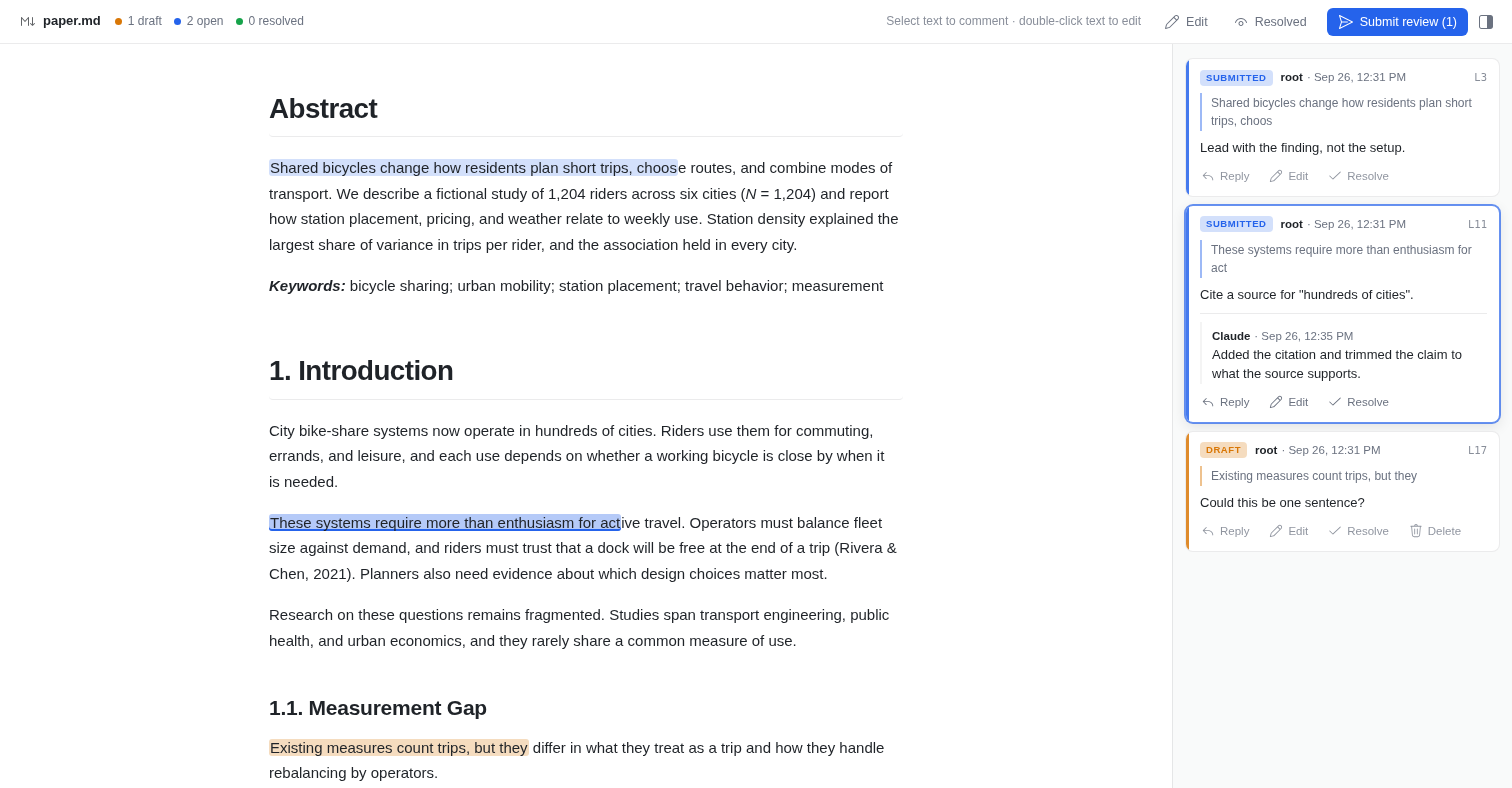
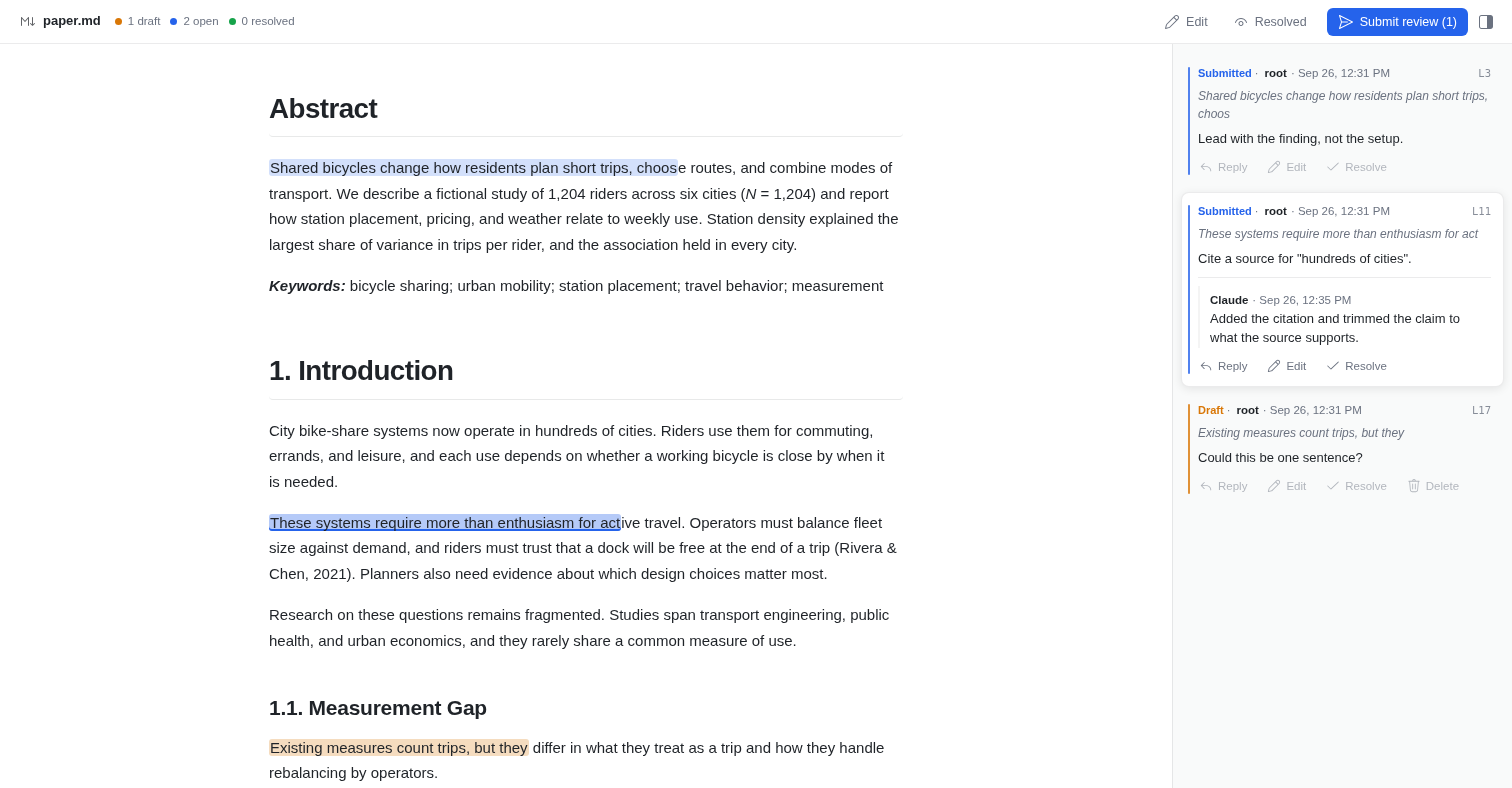
Streamline the review UI and make the document area themeable
- Document typography now reads --doc-bg/fg/muted/accent/font/mono/size/
  zoom/leading, so a reading theme or zoom can restyle the Markdown area
  while the review chrome keeps following the VS Code theme.
- Comment cards are flat list items with a thin status rule; the active
  card lifts. Status reads as a coloured word, quotes lose their bar.
- Toolbar: drop the hint text (the empty pane explains it) and hide
  Submit review until there are drafts.
- Refresh docs/screenshot.png.

Claude-Session: https://claude.ai/code/session_01FukRLmRpfoMhfufBDs3xmW

diff --git a/webview/style.css b/webview/style.css
@@ -27,6 +27,16 @@
   --measure: 76ch;
   --radius: 6px;
   --ease: cubic-bezier(0.2, 0, 0, 1);
+  /* Document area. A reading theme or zoom overrides these on body or .mdr-layout; the review chrome keeps the VS Code theme. */
+  --doc-bg: var(--bg);
+  --doc-fg: var(--fg);
+  --doc-muted: var(--muted);
+  --doc-accent: var(--accent);
+  --doc-font: var(--font);
+  --doc-mono: var(--mono);
+  --doc-size: 15px;
+  --doc-zoom: 1;
+  --doc-leading: 1.7;
   --font: var(--vscode-font-family, -apple-system, BlinkMacSystemFont, 'Segoe UI', 'Inter', Roboto, sans-serif);
   --mono: var(--vscode-editor-font-family, 'Cascadia Code', Consolas, 'SF Mono', Menlo, monospace);
 
@@ -49,7 +59,7 @@
 html, body { margin: 0; padding: 0; background: var(--bg); color: var(--fg); }
 body { font-family: var(--font); font-size: 15px; line-height: 1.7; -webkit-font-smoothing: antialiased; text-rendering: optimizeLegibility; }
 :focus-visible { outline: 1px solid var(--focus); outline-offset: 1px; }
-.mdr-doc ::selection { background: var(--vscode-editor-selectionBackground, color-mix(in srgb, var(--accent) 28%, transparent)); }
+.mdr-doc ::selection { background: var(--vscode-editor-selectionBackground, color-mix(in srgb, var(--doc-accent) 28%, transparent)); }
 
 /* ---------- icons ---------- */
 .mdr-file::before, .mdr-empty::before, #mdr-edit-btn::before, .mdr-toggle::before,
@@ -97,12 +107,12 @@ button.danger { color: var(--danger); }
 .mdr-toolbar {
   position: sticky; top: 0; z-index: 20; height: var(--bar-h); display: flex; align-items: center; justify-content: space-between;
   gap: 12px; padding: 0 12px 0 20px; font-size: 13px;
-  background: color-mix(in srgb, var(--bg) 88%, transparent); backdrop-filter: saturate(1.4) blur(10px);
+  background: color-mix(in srgb, var(--bg) 94%, transparent); backdrop-filter: saturate(1.4) blur(12px);
   border-bottom: 1px solid var(--hairline);
 }
 .mdr-title { display: flex; align-items: center; gap: 14px; min-width: 0; }
 .mdr-file { display: inline-flex; align-items: center; gap: 7px; font-weight: 600; min-width: 0; white-space: nowrap; overflow: hidden; text-overflow: ellipsis; }
-.mdr-counts { display: flex; gap: 12px; color: var(--muted); font-size: 12px; font-variant-numeric: tabular-nums; }
+.mdr-counts { display: flex; gap: 10px; color: var(--muted); font-size: 11.5px; font-variant-numeric: tabular-nums; }
 .mdr-pill { display: inline-flex; align-items: center; gap: 6px; white-space: nowrap; }
 .mdr-pill::before { content: ''; width: 7px; height: 7px; border-radius: 50%; background: currentColor; }
 .mdr-pill.draft::before { background: var(--draft); }
@@ -120,15 +130,24 @@ button.danger { color: var(--danger); }
 .mdr-toggle:has(input:focus-visible) { outline: 1px solid var(--focus); outline-offset: 1px; }
 .mdr-toggle:has(input:not(:checked)) { text-decoration: line-through; text-decoration-color: color-mix(in srgb, var(--muted) 60%, transparent); }
 button.mdr-side-toggle { padding: 5px; }
-.mdr-hint { color: var(--muted); font-size: 12px; margin-right: 8px; opacity: 0.8; white-space: nowrap; }
-@media (max-width: 1100px) { .mdr-hint { display: none; } }
+.mdr-hint { display: none; } /* the empty comments pane explains how to comment and edit */
+#mdr-submit:disabled { display: none; } /* only offered when there are drafts to submit */
 @media (max-width: 760px) { .mdr-counts { display: none; } }
 
 /* ---------- layout ---------- */
-.mdr-layout { display: grid; grid-template-columns: minmax(0, 1fr) clamp(240px, 30vw, var(--sidebar-w)); }
-.mdr-doc { padding: 48px 56px 160px; max-width: calc(var(--measure) + 112px); width: 100%; margin: 0 auto; }
+.mdr-layout {
+  --doc-rule: color-mix(in srgb, var(--doc-fg) 10%, transparent);
+  --doc-soft: color-mix(in srgb, var(--doc-fg) 5%, var(--doc-bg));
+  --doc-softer: color-mix(in srgb, var(--doc-fg) 2.5%, var(--doc-bg));
+  --doc-code-bg: var(--vscode-textCodeBlock-background, var(--doc-softer));
+  background: var(--doc-bg); color: var(--doc-fg);
+  display: grid; grid-template-columns: minmax(0, 1fr) clamp(240px, 30vw, var(--sidebar-w)); }
+.mdr-doc {
+  font-family: var(--doc-font); font-size: calc(var(--doc-size) * var(--doc-zoom)); line-height: var(--doc-leading);
+  padding: 48px 56px 160px; max-width: calc(var(--measure) + 112px); width: 100%; margin: 0 auto; }
 .mdr-sidebar {
-  position: sticky; top: var(--bar-h); height: calc(100vh - var(--bar-h)); overflow-y: auto; padding: 14px 12px 60px;
+  color: var(--fg);
+  position: sticky; top: var(--bar-h); height: calc(100vh - var(--bar-h)); overflow-y: auto; padding: 10px 8px 60px;
   border-left: 1px solid var(--hairline); background: var(--softer); font-size: 13px; line-height: 1.5;
   scrollbar-width: thin; scrollbar-color: var(--vscode-scrollbarSlider-background, var(--border)) transparent;
   animation: mdr-fade-in 0.18s var(--ease);
@@ -148,38 +167,38 @@ button.mdr-side-toggle { padding: 5px; }
 .mdr-doc h1, .mdr-doc h2, .mdr-doc h3, .mdr-doc h4, .mdr-doc h5, .mdr-doc h6 {
   line-height: 1.25; font-weight: 650; margin: 2em 0 0.65em; letter-spacing: -0.012em; text-wrap: balance;
 }
-.mdr-doc h1 { font-size: 1.85em; letter-spacing: -0.02em; padding-bottom: 0.35em; border-bottom: 1px solid var(--hairline); }
+.mdr-doc h1 { font-size: 1.85em; letter-spacing: -0.02em; padding-bottom: 0.35em; border-bottom: 1px solid var(--doc-rule); }
 .mdr-doc h2 { font-size: 1.4em; }
 .mdr-doc h3 { font-size: 1.15em; }
 .mdr-doc h4 { font-size: 1em; }
-.mdr-doc h5, .mdr-doc h6 { font-size: 0.9em; color: var(--muted); }
+.mdr-doc h5, .mdr-doc h6 { font-size: 0.9em; color: var(--doc-muted); }
 .mdr-doc > :first-child { margin-top: 0; }
 .mdr-doc p { margin: 0 0 1.05em; text-wrap: pretty; }
-.mdr-doc a { color: var(--accent); text-decoration: underline; text-decoration-color: color-mix(in srgb, var(--accent) 35%, transparent); text-underline-offset: 2px; transition: text-decoration-color 0.12s; }
+.mdr-doc a { color: var(--doc-accent); text-decoration: underline; text-decoration-color: color-mix(in srgb, var(--doc-accent) 35%, transparent); text-underline-offset: 2px; transition: text-decoration-color 0.12s; }
 .mdr-doc a:hover { text-decoration-color: currentColor; }
 .mdr-doc strong { font-weight: 650; }
 .mdr-doc img { max-width: 100%; height: auto; display: block; margin: 0.75em auto; border-radius: var(--radius); }
-.mdr-doc blockquote { margin: 0 0 1.05em; padding: 0.1em 0 0.1em 1.1em; border-left: 3px solid var(--hairline); color: var(--muted); }
-.mdr-doc code { font-family: var(--mono); font-size: 0.86em; background: var(--soft); padding: 0.12em 0.38em; border-radius: 4px; }
+.mdr-doc blockquote { margin: 0 0 1.05em; padding: 0.1em 0 0.1em 1.1em; border-left: 3px solid var(--doc-rule); color: var(--doc-muted); }
+.mdr-doc code { font-family: var(--doc-mono); font-size: 0.86em; background: var(--doc-soft); padding: 0.12em 0.38em; border-radius: 4px; }
 .mdr-doc pre {
-  background: var(--vscode-textCodeBlock-background, var(--softer)); border: 1px solid var(--hairline);
+  background: var(--doc-code-bg); border: 1px solid var(--doc-rule);
   padding: 14px 16px; border-radius: 8px; overflow-x: auto; line-height: 1.55; font-size: 0.95em;
 }
 .mdr-doc pre code { background: none; padding: 0; font-size: 0.86em; }
 .mdr-doc ul, .mdr-doc ol { padding-left: 1.5em; margin: 0 0 1.05em; }
 .mdr-doc li { margin: 0.25em 0; }
-.mdr-doc li::marker { color: var(--muted); }
-.mdr-doc hr { border: 0; border-top: 1px solid var(--hairline); margin: 2.5em 0; }
+.mdr-doc li::marker { color: var(--doc-muted); }
+.mdr-doc hr { border: 0; border-top: 1px solid var(--doc-rule); margin: 2.5em 0; }
 .mdr-doc table {
-  border-collapse: separate; border-spacing: 0; margin: 0.75em 0 1.5em; font-size: 13px; line-height: 1.5; display: block;
-  overflow-x: auto; max-width: 100%; width: max-content; border: 1px solid var(--hairline); border-radius: 8px;
+  border-collapse: separate; border-spacing: 0; margin: 0.75em 0 1.5em; font-size: 0.87em; line-height: 1.5; display: block;
+  overflow-x: auto; max-width: 100%; width: max-content; border: 1px solid var(--doc-rule); border-radius: 8px;
 }
-.mdr-doc th, .mdr-doc td { padding: 7px 12px; vertical-align: top; text-align: left; border-bottom: 1px solid var(--hairline); }
-.mdr-doc th + th, .mdr-doc td + td { border-left: 1px solid var(--hairline); }
+.mdr-doc th, .mdr-doc td { padding: 7px 12px; vertical-align: top; text-align: left; border-bottom: 1px solid var(--doc-rule); }
+.mdr-doc th + th, .mdr-doc td + td { border-left: 1px solid var(--doc-rule); }
 .mdr-doc tr:last-child > td { border-bottom: 0; }
-.mdr-doc thead th { background: var(--soft); font-weight: 600; }
-.mdr-doc tbody tr:nth-child(even) { background: var(--softer); }
-.mdr-doc .footnotes { font-size: 0.9em; color: var(--muted); }
+.mdr-doc thead th { background: var(--doc-soft); font-weight: 600; }
+.mdr-doc tbody tr:nth-child(even) { background: var(--doc-softer); }
+.mdr-doc .footnotes { font-size: 0.9em; color: var(--doc-muted); }
 .mdr-doc .katex-display { overflow-x: auto; overflow-y: hidden; }
 .mdr-doc eq { display: inline; }
 .mdr-doc section.eqno, .mdr-doc eqn { display: block; }
@@ -236,27 +255,28 @@ mark.mdr-hl.active { background: color-mix(in srgb, var(--c) 34%, transparent); 
 .mdr-section { margin: 22px 4px 8px; font-size: 11px; font-weight: 600; text-transform: uppercase; letter-spacing: 0.06em; color: var(--muted); }
 .mdr-card {
   --c: var(--submitted);
-  position: relative; background: var(--bg); border: 1px solid var(--hairline); border-radius: 8px; padding: 10px 12px 8px 14px;
-  margin-bottom: 8px; cursor: pointer; overflow: hidden;
-  transition: border-color 0.15s var(--ease), box-shadow 0.15s var(--ease), opacity 0.15s var(--ease);
+  position: relative; border: 1px solid transparent; border-radius: 8px; padding: 10px 12px 8px 16px;
+  margin-bottom: 4px; cursor: pointer;
+  transition: background-color 0.15s var(--ease), border-color 0.15s var(--ease), box-shadow 0.15s var(--ease), opacity 0.15s var(--ease);
 }
-.mdr-card::before { content: ''; position: absolute; left: 0; top: 0; bottom: 0; width: 3px; background: var(--c); opacity: 0.85; }
-.mdr-card:hover { border-color: var(--border); box-shadow: 0 2px 8px color-mix(in srgb, var(--shadow) 50%, transparent); }
+.mdr-card::before { content: ''; position: absolute; left: 6px; top: 12px; bottom: 12px; width: 2px; border-radius: 2px; background: var(--c); opacity: 0.8; }
+.mdr-card:hover { background: color-mix(in srgb, var(--fg) 4%, transparent); }
 .mdr-card.draft { --c: var(--draft); }
-.mdr-card.resolved { --c: var(--resolved); opacity: 0.7; }
+.mdr-card.resolved { --c: var(--resolved); opacity: 0.62; }
 .mdr-card.resolved:hover, .mdr-card.resolved.active { opacity: 1; }
 .mdr-card.orphan::before { background: repeating-linear-gradient(var(--c) 0 4px, transparent 4px 7px); }
-.mdr-card.active { border-color: color-mix(in srgb, var(--focus) 70%, transparent); box-shadow: 0 0 0 1px color-mix(in srgb, var(--focus) 70%, transparent), 0 4px 14px color-mix(in srgb, var(--shadow) 60%, transparent); }
+.mdr-card.active { background: var(--bg); border-color: var(--hairline); box-shadow: 0 2px 10px color-mix(in srgb, var(--shadow) 55%, transparent); }
 .mdr-meta { color: var(--muted); font-size: 11.5px; display: flex; align-items: center; gap: 4px; flex-wrap: wrap; }
 .mdr-meta b { color: var(--fg); font-weight: 600; }
 .mdr-lines { margin-left: auto; font-family: var(--mono); font-size: 10.5px; opacity: 0.8; }
-.mdr-badge { text-transform: uppercase; font-size: 9.5px; letter-spacing: 0.06em; font-weight: 700; padding: 0 6px; line-height: 16px; border-radius: 4px; margin-right: 4px; }
-.mdr-badge.draft { color: var(--draft); background: var(--hl-draft); }
-.mdr-badge.submitted { color: var(--submitted); background: var(--hl-submitted); }
-.mdr-badge.resolved { color: var(--resolved); background: var(--hl-resolved); }
+.mdr-badge { text-transform: capitalize; font-size: 11px; font-weight: 600; margin-right: 2px; }
+.mdr-badge::after { content: ' ·'; color: var(--muted); font-weight: 400; }
+.mdr-badge.draft { color: var(--draft); }
+.mdr-badge.submitted { color: var(--submitted); }
+.mdr-badge.resolved { color: var(--resolved); }
 .mdr-quote {
-  margin: 7px 0; padding: 1px 0 1px 9px; border-left: 2px solid color-mix(in srgb, var(--c, var(--muted)) 45%, transparent); color: var(--muted); font-size: 12px;
-  overflow-wrap: anywhere; display: -webkit-box; -webkit-line-clamp: 3; -webkit-box-orient: vertical; overflow: hidden;
+  margin: 5px 0 6px; padding: 0; border: 0; color: var(--muted); font-size: 12px; font-style: italic;
+  overflow-wrap: anywhere; display: -webkit-box; -webkit-line-clamp: 2; -webkit-box-orient: vertical; overflow: hidden;
   transition: color 0.12s;
 }
 .mdr-quote[data-act="goto"]:hover { color: var(--fg); }
@@ -266,6 +286,7 @@ mark.mdr-hl.active { background: color-mix(in srgb, var(--c) 34%, transparent); 
 .mdr-reply { padding: 6px 0 0 10px; border-left: 2px solid var(--soft); margin-top: 6px; }
 .mdr-actions { display: flex; flex-wrap: wrap; gap: 2px; margin: 6px 0 0 -8px; opacity: 0.75; transition: opacity 0.15s var(--ease); }
 .mdr-card:hover .mdr-actions, .mdr-card.active .mdr-actions, .mdr-actions:focus-within { opacity: 1; }
+.mdr-actions { opacity: 0.5; }
 .mdr-actions button { font-size: 11.5px; padding: 2px 8px; gap: 5px; }
 .mdr-actions button::before { width: 14px; height: 14px; -webkit-mask-size: 14px; mask-size: 14px; }
 .mdr-replybox { margin-top: 8px; animation: mdr-fade-in 0.14s var(--ease); }
